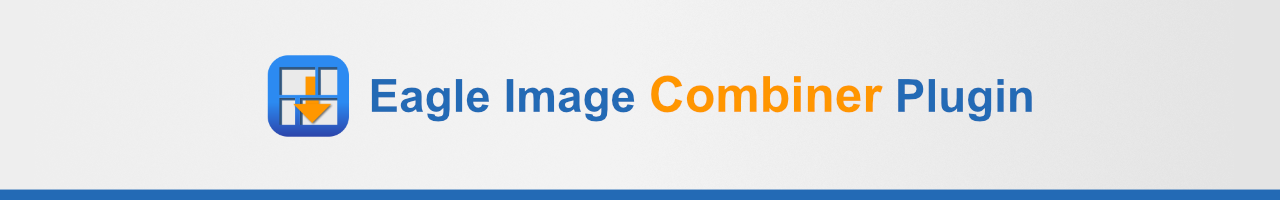
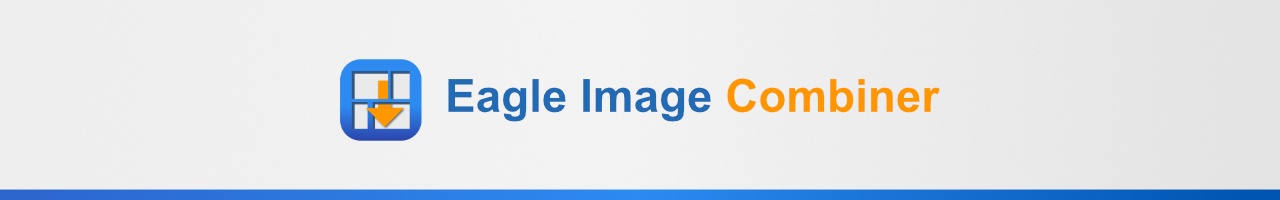
docs: ヘッダー画像を更新
READMEのヘッダー画像と説明文を調整。

Changed region(s): [[0.1875, 0.27, 0.8125, 0.72], [0.0, 0.93, 0.7812, 1.0], [0.8438, 0.93, 1.0, 1.0]]

diff --git a/README.md b/README.md
@@ -1,6 +1,6 @@
 ![Eagle Image Combiner Plugin header](./header.png)
 
-# Eagle用画像結合プラグイン
+# Eagle Image Combiner: Eagle用画像結合プラグイン
 
 ドラッグ＆ドロップした画像を結合し、Eagleへ追加するためのプラグインです。
 
